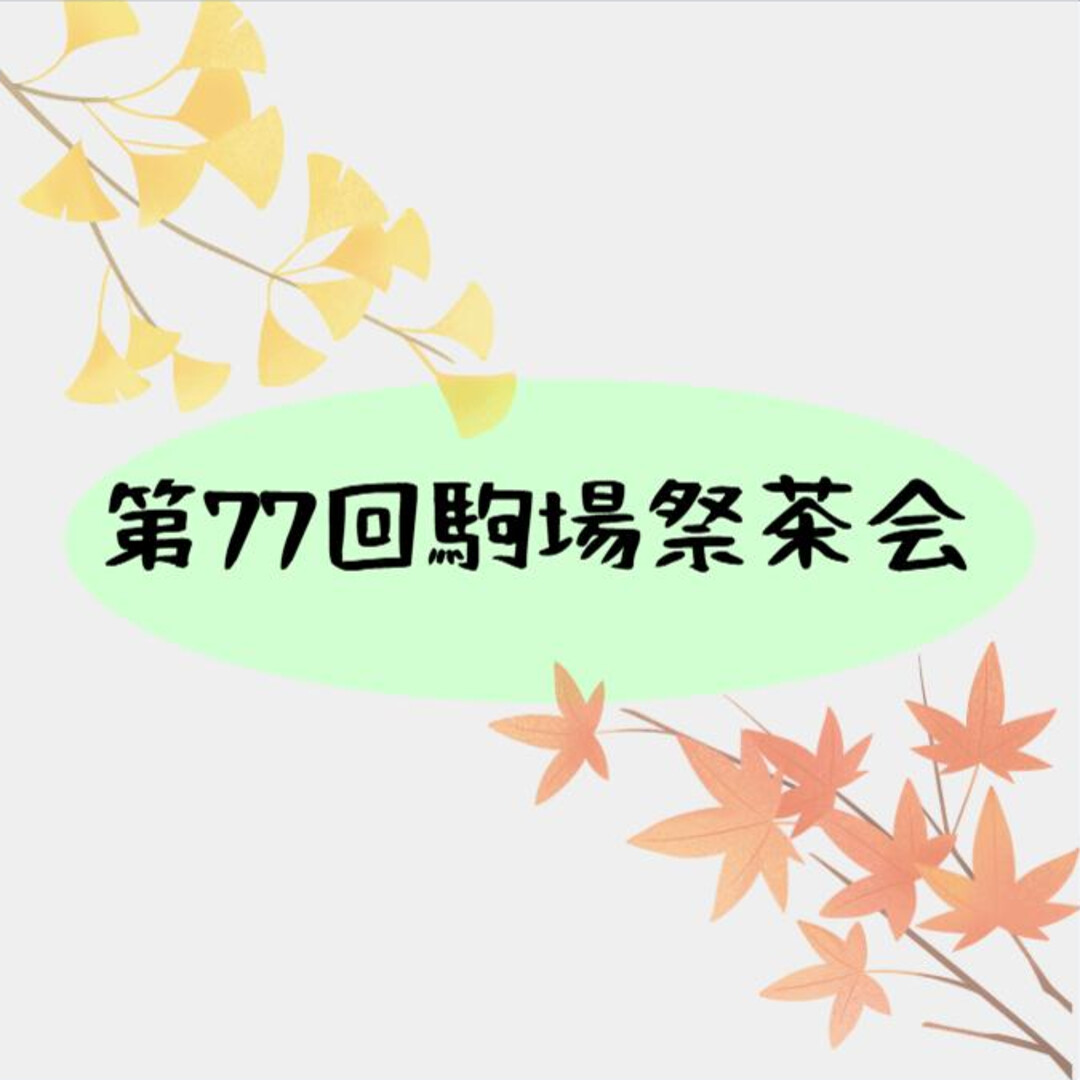
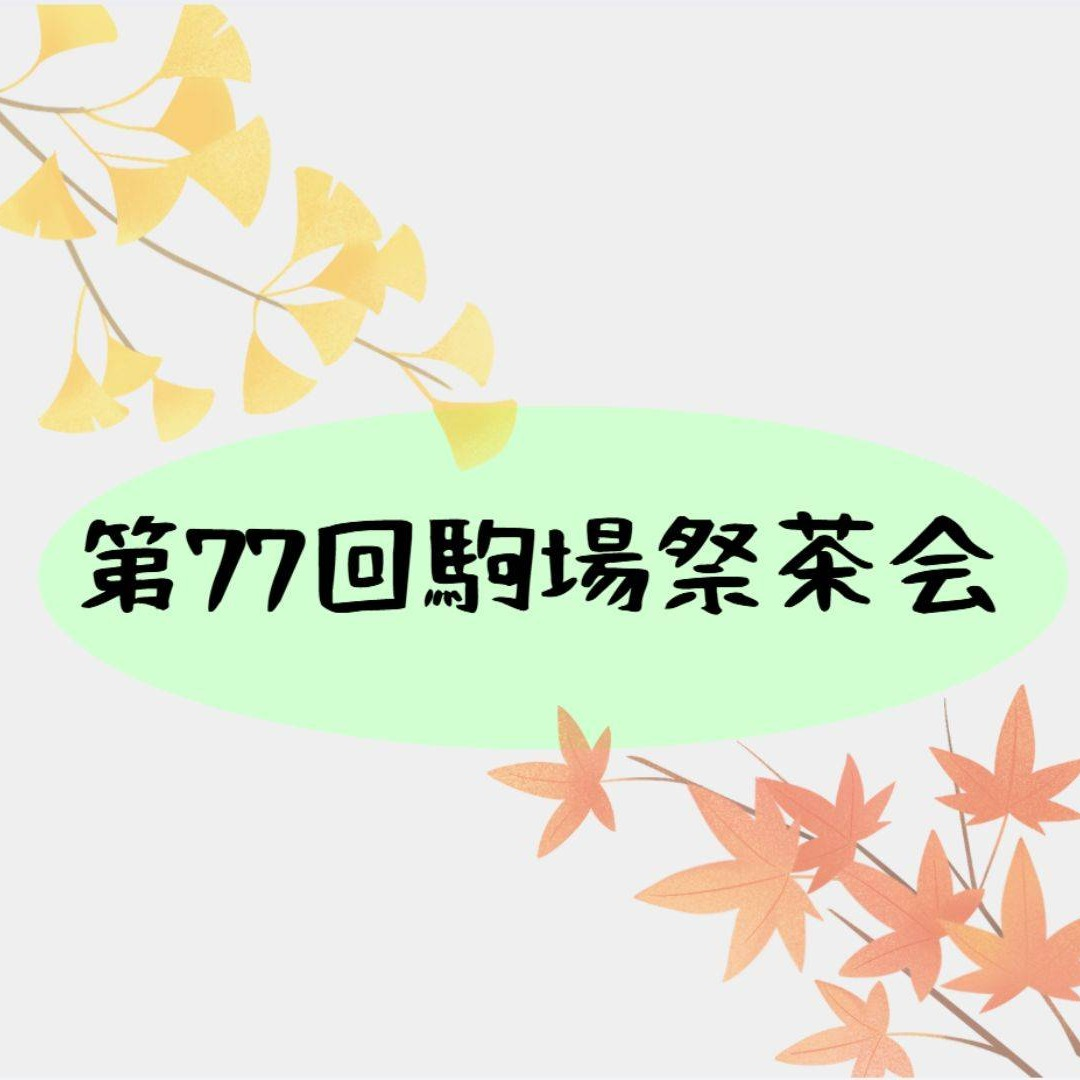
駒場祭の告知スライドを更新版に差し替え（11/13・11/14 の記事）

Changed region(s): [[0.0, 0.0, 1.0, 1.0]]

diff --git a/_posts/2026-11-14-komabasai-shiomi-manju.md b/_posts/2026-11-14-komabasai-shiomi-manju.md
@@ -2,7 +2,11 @@
 layout: post
 title: "駒場祭のお菓子「塩味饅頭」"
 date: 2026-11-14
-image: "/assets/images/posts/2026-11-14.jpg"
+image: "/assets/images/posts/2026-11-14_1.jpg"
+images:
+  - "/assets/images/posts/2026-11-14_1.jpg"
+  - "/assets/images/posts/2026-11-14_2.jpg"
+  - "/assets/images/posts/2026-11-14_3.jpg"
 tags: [駒場祭, イベント, ご案内]
 ---
 駒場祭のお茶会では、赤穂名産の「塩味饅頭」をお出しします🍵
